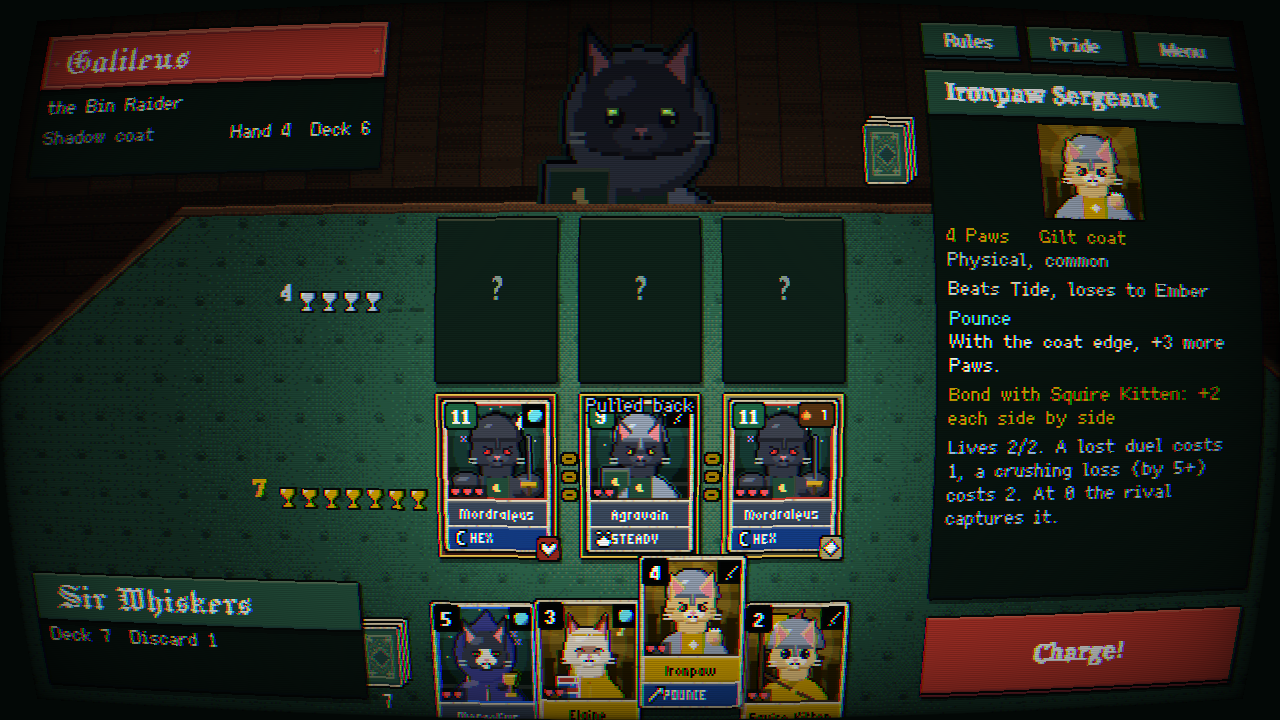
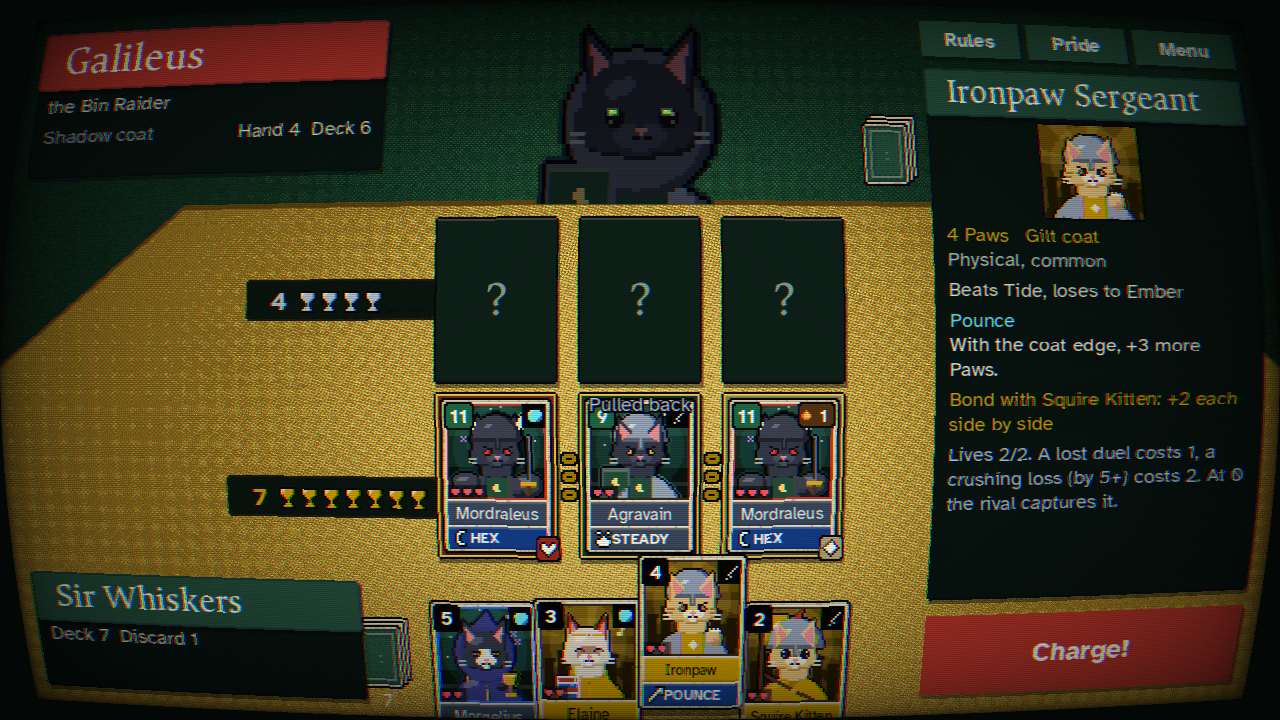
Docs and screenshots: the poster look, the Overseer, the High Table
Claude-Session: https://claude.ai/code/session_01HaRigmW1gGgg2LAYvm2s6t

diff --git a/docs/DESIGN.md b/docs/DESIGN.md
@@ -2,28 +2,31 @@
 
 ## Art direction
 
-Clean pixel art on a card table: crisp clusters, bold dark outlines, limited hue-shifted
-palettes, and physical materials (felt, wood, worn paper) like an old card game played at night.
-Type is pixel type on the same grid as the art. The Figma file still gives the palette and logo.
+A printed poster, after the Overseer's art in the Figma file: film-grain dark green paper, halftone
+dots for light and shade, a mustard table, flat red buttons, serif headings over sans text, and
+the flaming shadow cat looming over it all. The cats and cards stay clean pixel art: crisp
+clusters, bold dark outlines, limited hue-shifted palettes.
 
 - **Pixel art at its real size.** Cats, cards, plates and icons are drawn at their true pixel size
   on a 640x360 grid, with no anti-aliasing, dither or blur. Bigger views (the inspect panel, the
   Cattery, portraits) are exact 2x or 3x enlargements, so pixels stay square and crisp.
-- **The room** (`src/ui/room.lua`) is painted pixel by pixel once per window shape and drawn K
-  times larger, so its pixels match the cats':
-  - **the match**: a felt card table in perspective, with a paw-print weave and a worn wooden
-    rail, panelled walls above it and a plank floor beside it;
-  - **the festival grounds** (hub, market, Fortune Teller, results): the same felt seen from
-    above, inside an oval wooden rail;
-  - **the VS screen**: a panelled wall.
-  One pool of lamplight lights each room, stepped through a short colour ramp with a 4x4 ordered
-  dither, and the corners fall into shadow. Hand matches and defeats get the blood-red felt.
-- **The menus** keep the dithered `stage` backdrop (`src/ui/shaders.lua`, Bayer 16x16, 8 levels)
-  with a slow paint **swirl** drifting through it.
-- **Plates** (`src/ui/plates.lua`) are flat palette fills with a 1px dark outline, notched corners
-  and a 1px bevel. Panels, buttons, cushions and card plates all use them.
-- **Title cards** (the "Card Name / Ability / Power" plates) are engraved signs: a ruled frame
-  inset two pixels and a stud at each end, with a live label (blackletter in pixel mode).
+- **Backdrops** (`src/ui/print.lua`) are halftone prints, baked once per scene, colour and window
+  shape at twice the virtual resolution and drawn smoothly scaled:
+  - dark green paper (blood red for Hand matches, the High Table and defeats) with film grain;
+  - one pool of light screened in halftone dots (45°), and corners falling into shadow;
+  - under every match, a mustard table in perspective, screened darker away from the light and
+    lighter near it (15°), with a dark rail; goblet rows sit on dark trays so they read on it.
+- **The Overseer** (`assets/img/overseer-*.png`, baked by `tools/art/bake_overseer.py` from the
+  Figma file's flat flame cat): red flames screened with orange, pink and white dots that
+  brighten towards the cat, a cyan glow with white and blue dots, a blue rim, a black cat whose
+  red eyes glow through a halftone halo, a pixel of red/blue misregistration and paper grain.
+  Four frames with the outer flames warped differently make them flicker, and it blinks
+  (`src/ui/overseer.lua`). It looms over the menu's table, the High Table, the defeat screen, its
+  cutscene lines and the Renown ledger, and its face signs every feat note.
+- **Plates** (`src/ui/plates.lua`) are flat palette fills with notched corners and an edge a shade
+  darker than themselves, like the poster's flat red buttons. Buttons add only a soft shadow.
+- **Title cards** (the "Card Name / Ability / Power" plates) are the same flat plates with a live
+  serif label.
 - **Cat illustrations** (`src/ui/art.lua`) are bust portraits in three layers:
   - **Backdrop** by coat, in three flat bands: an Ember hall with pennants and embers, a rainy
     Tide shore, a Gilt sunburst over a castle, a Shadow night with the moon. The Hands get blood red
@@ -43,10 +46,12 @@ Type is pixel type on the same grid as the art. The Figma file still gives the p
   the illustration in a window framed in the rarity's colour (brown, blue, red, gold; legendaries
   get gilt corners), the name on its coat's colour, the ability, a type badge and the cat's hearts.
   Names, abilities and Paws are live text.
-- **Card backs** are ornate, like old playing cards: the same paper, then a field in the coat's
-  colour with a diamond lattice, a ruled frame, corner knots and a medallion. Shadow cats and
-  tricks share the dark navy back.
-- **The menu** is a festival night: bunting, your champion facing the Four Hands, and the logo.
+- **Card backs**: the same paper, then a field in the coat's colour printed in halftone (dots
+  grow towards the edges, a ruled frame) with the Overseer's mark in the middle, a black cat's
+  head with two red eyes. Shadow cats and tricks share the dark navy back.
+- **The menu** is staged like the poster: links along the top, the logo in the middle, a red
+  Renown button, a serif headline, red calls to action, and the Overseer looming over the table
+  with a hand dealt face down.
 
 ### The CRT screen
 
@@ -75,12 +80,13 @@ Without shaders (LÖVE Potion) there's no CRT and no swirl.
 
 Two text styles, chosen in Settings (`theme.setTextStyle`):
 
-- **Pixel** (the default): pixel fonts drawn on the art's own grid, one font pixel per virtual
-  pixel, with no anti-aliasing. Every face sits on a whole-pixel grid and is rasterised at exactly
-  its design size times K, so glyphs are as crisp as the cats. Baselines land on whole pixels and
-  capitals sit centred in their line box. Small bold is the classic pixel bold: a second pass one
-  pixel to the right.
-- **Smooth**: Atkinson Hyperlegible and Ancizar Serif, rasterised at the screen's real resolution.
+- **Smooth** (the default, like the poster): Ancizar Serif headings and Atkinson Hyperlegible for
+  everything else, rasterised at the screen's real resolution. A body line is 20px tall at 720p.
+- **Pixel**: pixel fonts drawn on the art's own grid, one font pixel per virtual pixel, with no
+  anti-aliasing. Every face sits on a whole-pixel grid and is rasterised at exactly its design
+  size times K, so glyphs are as crisp as the cats. Baselines land on whole pixels and capitals
+  sit centred in their line box. Small bold is the classic pixel bold: a second pass one pixel to
+  the right. (Settings files from the pixel-default build are moved back to smooth once.)
 
 Every text call asks for a style and a size (`theme.font(style, size)`); pixel mode maps it to a
 face:
@@ -94,8 +100,8 @@ face:
 | Headline numbers | Jersey 15 | 15 px | Atkinson Hyperlegible Bold |
 | Tiny labels: card names, abilities | Micro 5 | 5 px | Atkinson Hyperlegible |
 
-A body line is 12 virtual pixels: 24px tall at 720p and 36px at 1080p. The fonts and their
-licences are in `assets/fonts` (see `CREDITS.txt`).
+In pixel mode a body line is 12 virtual pixels: 24px tall at 720p and 36px at 1080p. The fonts
+and their licences are in `assets/fonts` (see `CREDITS.txt`).
 
 ### Contrast (WCAG 2.x AA)
 
@@ -116,10 +122,10 @@ licences are in `assets/fonts` (see `CREDITS.txt`).
 
 ### Without shaders (Switch)
 
-LÖVE Potion can't compile GLSL. The rooms (table, felt, wall) are painted from pixels, so they need
-no shader; the menus' `stage` backdrop falls back to PNGs baked by `tools/switch/bake_assets.py`
-(also used for a room where ImageData isn't available). The pixel cleanup pass reads canvases
-back; where that isn't possible it is skipped. There's no swirl and no CRT pass.
+LÖVE Potion can't compile GLSL, and no longer needs to for anything but the CRT: the backdrops
+and table are baked from pixels (`src/ui/print.lua`) and the Overseer is a set of PNGs. Where
+ImageData isn't available the backdrops fall back to PNGs baked by `tools/switch/bake_assets.py`.
+The pixel cleanup pass reads canvases back; where that isn't possible it is skipped.
 
 ## The match: three cushions
 
@@ -270,6 +276,17 @@ The rule that makes every bout matter twice:
 | III: The Winter Yowl | Winter Yowl | coat edge +4 | reach the semi-finals |
 | IV: Moonlit Mews | Moonlit Mews | Shadow +1 | reach the final |
 | V: The Gilded Saucer | Tourney of the Gilded Saucer | +1 goblet | win and dethrone the First Hand |
+| VI: The High Table | one match against the Overseer | | beat the Overseer at its own table |
+
+**The Overseer** is the story's villain: the flaming shadow cat in the high box over the Arena,
+who put the Four Hands on their cushions and keeps the ledger (Renown). It watches from the
+prologue, speaks at key moments, and shows itself after you take the Gilded Saucer. Chapter VI is
+one match at its table (`story.bossMatch`): your pride as the Gilded Saucer left it, against the
+Four Hands' signature cats and the best rares, with an extra goblet and its **eye**: when it
+answers, it sees your cards face up (`mods.allSeeing`, read in `visibleFoe`). The tuning lives
+in `story.BOSS_TUNING`; with it the AI player wins about a third of the time with a late pride,
+and losing just sends you back down the stairs to try again. Winning finishes the story and earns
+Over the Overseer.
 
 - The Hands' lines are spoken by whoever holds each rank when you play the chapter: the nemesis
   system keeps running between chapters, so the story's villains can change.
@@ -302,11 +319,12 @@ The progression that outlives every festival (`src/core/renown.lua`, saved on it
   result screen fills a Renown bar.
 - **Levels** need 15·(L−1)·(L+2) Renown in total (60, 150, 270, 420, 600...). Each level gives a
   title, from Nameless Stray to Lord of Cushions.
-- **25 Feats**, each earned once and worth 10–120 Renown, pop up as medals: at the table (Hot Seat,
+- **26 Feats**, each earned once and worth 10–150 Renown, are noted by the Overseer (a note with
+  its face slides in): at the table (Hot Seat,
   Throne Warmer, Clean Sweep, Flattened, Legend Napper, Cat Burglar, Untouchable, Last Goblet
   Standing, Blitz, Homecoming), at the festival (First Lesson, Hand Slayer, Kingslayer, Oathkeeper,
   Mercy, No Quarter, Fat Cat, Through the Gate, Finalist, Champion) and over a life (Collector,
-  Dynasty, Colours, Stray No More, Living Legend).
+  Dynasty, Colours, Stray No More, Over the Overseer, Living Legend).
 - **Crests** unlock with levels and are picked when a Free Festival starts:
 
 | Crest | Level | Start with |
@@ -321,7 +339,8 @@ The progression that outlives every festival (`src/core/renown.lua`, saved on it
 
 - Pacing in the simulation: level 3 after the first festival, 4.3 after the second, 5.5 after the
   third. The Royal Crest takes about 14 festivals.
-- The Renown screen (main menu) lists the level, lifetime stats, every feat and every crest.
+- The Renown screen (main menu) is the Overseer's ledger: the level, lifetime stats, every feat
+  and every crest.
 
 ## Crash safety
 
@@ -392,10 +411,10 @@ Tuning knobs:
 | --- | --- |
 | Title frame: two-tone "Draft" lockup and tagline | main menu, victory summary (`assets/img/logo.png`) |
 | Title cards: Card Name, Type, Ability, Power, Rarity | `plates.titleCard`, used for every heading, banner, plaque and stall (now engraved signs) |
-| Dither effect (Bayer 16x16, 8 levels, 2px) | the menus' `stage` backdrop |
+| Dither effect (Bayer 16x16, 8 levels, 2px) | became the halftone and grain of the print backdrops (`src/ui/print.lua`) |
 | Lens distortion effect (anamorphic, chromatic) | no longer drawn (the Switch baker still writes the smear PNGs) |
 | Red/blue cat mascot | window icon |
-| Shadow creature with flames | defeat summary |
+| Shadow creature with flames | the Overseer, printed in halftone by `tools/art/bake_overseer.py` |
 | Card sheet (Artheline, Merline, the Black Cats) | the first entries in `src/core/cards.lua`, with signature looks in `art.lua` |
 
 ## Ideas for later

diff --git a/README.md b/README.md
@@ -2,27 +2,33 @@
 
 A pixel-art roguelike card game about cat knights, with a nemesis system and the feel of an arena festival. Built in **LÖVE 11 (Lua)**.
 
-- **Story mode, "Stray to Champion".** A nameless stray learns the cushion duel from Old Bedimew (the prologue is the tutorial), then fights through five Arena festivals to dethrone the First Hand. Each chapter is a full festival with a goal and cutscenes.
+- **Story mode, "Stray to Champion".** A nameless stray learns the cushion duel from Old Bedimew (the prologue is the tutorial), then fights through five Arena festivals to dethrone the First Hand. Each chapter is a full festival with a goal and cutscenes. Above them all sits **the Overseer**, a flaming shadow cat who keeps the Arena's ledger; the last chapter is one match at its High Table, where it sees through every card back.
 - **Free Festival.** The roguelike: a random pride, 16 cats, four groups, a live points table, then an 8-cat knockout bracket.
 - **The cushion duel.** Both sides have three cushions; the cats on facing cushions duel, and a winner swats a goblet off the loser's side. Each bout one side **leads** face-down and the other **answers**, seeing only the card backs. A back shows the cat's coat, but Shadow cats and tricks share the same dark back.
 - **Hold the Cushion.** A cat that wins its duel stays seated, face-up, and warms up: +1 Paw for every bout it holds on. At 3 Warmth it's a **Hot Seat** and every swat knocks off an extra goblet. Keep a streak going, or pull a cat back before the rival aims at it.
 - **Stolen Lives.** Every cat brings 2 or 3 lives (hearts) into a match. A lost duel costs one; a crushing loss (by 5+ Paws) costs two. Out of lives, the rival **captures** the cat. The Four Hands keep your captured cats across festivals and send them back at you, marked as yours; beat your captive, or beat the Hand, and they come home. Strays pawn theirs at the market. The rival cats you capture are your spoils.
 - **The Four Hands** are persistent nemesis Warlords. They remember you, hide strengths and weaknesses, scheme between festivals, and build their prides from what they take from you.
-- **Renown and Feats.** Every match in either mode earns Renown, and 25 Feats (a Hot Seat, a Clean Sweep, a Legend Napper, a Kingslayer...) pop up as medals the moment you earn them. Renown levels give you a title and unlock **Crests**, starting loadouts for a Free Festival.
+- **Renown and Feats.** Every match in either mode earns Renown, and 26 Feats (a Hot Seat, a Clean Sweep, a Legend Napper, a Kingslayer...) are noted by the Overseer the moment you earn them. Renown levels give you a title and unlock **Crests**, starting loadouts for a Free Festival.
 - **Bonds** between legendary pairs, upholstered **cushions**, a rule-bending **omen** for every festival, and **the Cattery**, a collection of every cat you've met.
-- **A card table at night, in pixel art.** Matches are played on a felt table with a paw-print weave and a worn wooden rail, under panelled walls. Cards are printed on worn cream paper, with ornate lattice backs in each coat's colour. Every cat is a hand-composed pixel bust (crisp clusters, 1px outlines, hue-shifted shading).
-- **A CRT screen** (on by default; Settings or F2 turns it off): gentle curvature, scanlines, bloom and a colour fringe, over a slow animated paint swirl on the menus.
-- **Pixel type.** Text uses pixel fonts on the same grid as the art (a blackletter for titles and signs). Settings > Text switches to smooth, screen-resolution type (Atkinson Hyperlegible). Every text colour is checked for WCAG AA contrast (4.5:1). Fullscreen fills any screen shape, Macs included, with no black bars.
+- **A printed poster look.** Film-grain dark green with halftone light, a mustard halftone table under every match, flat red buttons, serif headings and sans text. The Overseer is a halftone print with flickering flames, looming over the menu's table. Cards are printed on worn cream paper, and every card back carries the Overseer's mark. Every cat is a hand-composed pixel bust.
+- **A CRT screen** (on by default; Settings or F2 turns it off): gentle curvature, scanlines, bloom and a colour fringe.
+- **Readable.** Ancizar Serif headings and Atkinson Hyperlegible text at your screen's real resolution (Settings > Text switches to pixel fonts on the art's grid). Every text colour is checked for WCAG AA contrast (4.5:1). Fullscreen fills any screen shape, Macs included, with no black bars.
+
+![The main menu: the Overseer looms over the table](docs/screenshots/00_menu.png)
 
 ![The rival leads; you answer (with the CRT screen on)](docs/screenshots/04_match_place.png)
 
+![The High Table: the story's last match, against the Overseer](docs/screenshots/26_high_table.png)
+
 ![Winners hold their cushions and warm up; a feat medal slides in](docs/screenshots/25_match_seated.png)
 
-![Renown: titles, feats and the crests they unlock](docs/screenshots/23_renown.png)
+![The Overseer's ledger: titles, feats and the crests they unlock](docs/screenshots/23_renown.png)
 
 ![Some of the cats](docs/screenshots/cats.png)
 
-![Story mode](docs/screenshots/20_story.png)
+![Story mode: from the bins to the High Table](docs/screenshots/20_story.png)
+
+![The Overseer speaks](docs/screenshots/22_cutscene.png)
 
 ## Run it
 
@@ -109,10 +115,11 @@ src/input.lua          mouse, touchscreen and controller folded into one pointer
 src/core/              pure game logic, no LÖVE: match engine + AI (lives and captures), festival, nemesis,
                        cards, traits, charms, run/meta (captives, pawnshop, spoils, crests), renown (feats, levels,
                        crests), story, tutorial
-src/ui/                theme (palette, WCAG contrast, pixel and smooth fonts), plates (plates and engraved signs),
+src/ui/                theme (palette, WCAG contrast, smooth and pixel fonts), plates (flat plates and title cards),
                        gfx (panels, text), icons, cardview (paper faces with live text and hearts, ornate backs),
-                       room (the painted table, felt and walls), art (pixel-art cats),
-                       shaders (the dithered backdrop and the CRT), widgets, fx (with feat medals), sfx, hud, picker,
+                       print (the baked halftone backdrops and table), overseer (its frames, blinks and face),
+                       art (pixel-art cats),
+                       shaders (the CRT), widgets, fx (with the Overseer's notes), sfx, hud, picker,
                        overlays (rules, Cattery, Renown, Crest picker...)
 src/scenes/            menu, story (chapter map), cutscene, hub, vs, match (with the tutorial), result, market,
                        event, summary
@@ -122,6 +129,7 @@ assets/                fonts (all OFL: Fusion Pixel, Coral Pixels, Jacquard 12, 
                        Hyperlegible, Ancizar Serif; see assets/fonts/CREDITS.txt) and images from the Figma file;
                        assets/switch holds the baked backdrop and smear art
 tools/switch/          Switch build: bake_assets.py, nro.py (NRO packer), build.py, icon.jpg
+tools/art/             bake_overseer.py: prints the Figma flame cat as the Overseer's halftone frames
 ```
 
 Design notes, the story script's shape, balance numbers and tuning knobs are in [docs/DESIGN.md](docs/DESIGN.md). Switch homebrew builds are in [docs/SWITCH.md](docs/SWITCH.md).

diff --git a/docs/SWITCH.md b/docs/SWITCH.md
@@ -11,25 +11,29 @@ the Home menu.
 
 ## What's different on the console
 
-LÖVE Potion has no runtime GLSL: Switch shaders are precompiled deko3d binaries. The rooms (the
-card table, the felt grounds, the panelled wall) are painted from pixels the first time they're shown, so they don't
-need a shader. Only the menus' dithered backdrop does, and `src/platform.lua` detects LÖVE Potion
-and draws it from PNGs instead:
+LÖVE Potion has no runtime GLSL: Switch shaders are precompiled deko3d binaries. The game only
+needs a shader for the CRT screen now. The halftone backdrops and the match table are baked from
+pixels the first time they're shown (`src/ui/print.lua`), and the Overseer is a set of PNGs:
 
 | Effect | Desktop | Switch |
 | --- | --- | --- |
-| Rooms: match table, festival grounds, VS wall | painted from pixels (`src/ui/room.lua`) | the same (falls back to the baked PNGs if ImageData is missing) |
-| Menu backdrop (`stage`) | live shader, with an animated swirl | PNG baked from the same maths (`assets/switch/stage-*.png`), without the swirl |
+| Backdrops and the match table | baked from pixels (`src/ui/print.lua`) | the same (falls back to the PNGs in `assets/switch/stage-*.png` if ImageData is missing) |
+| The Overseer | four halftone PNG frames | the same |
 | CRT screen | on by default (Settings or F2) | not available (needs a shader) |
 | Cat art cleanup pass (stray pixels) | canvas read-back | skipped if read-back isn't available |
-| Everything else (plates, cards, cats, pixel text) | no shader | no shader |
+| Everything else (plates, cards, cats, text) | no shader | no shader |
 
-The baked PNGs come from `tools/switch/bake_assets.py`, which ports the shaders to numpy and
-reads its presets, colour ramps and tints from `src/ui/bakes.lua`, the same table the game
-uses. If you change that file, re-run the baker:
+The fallback PNGs come from `tools/switch/bake_assets.py`, which bakes a plainer dithered
+backdrop with numpy from the presets and colour ramps in `src/ui/bakes.lua`, the same table the
+game uses. If you change that file, re-run the baker. The Overseer's frames come from
+`tools/art/bake_overseer.py`:
 
 ```bash
 python3 tools/switch/bake_assets.py
+```
+
+```bash
+python3 tools/art/bake_overseer.py
 ```
 
 The sound effects are synthesised at load as on desktop, at 11 kHz to keep start-up short.
